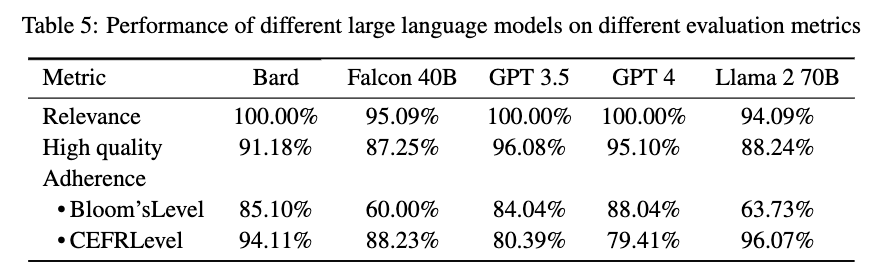
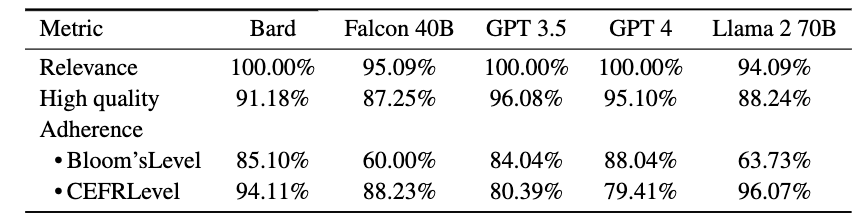
Changes to be committed: 	modified:   _pages/research.md 	modified:   images/table.png

diff --git a/_pages/research.md b/_pages/research.md
@@ -17,4 +17,4 @@ We examined the ability of five state-of-the-art LLMs to generate relevant and h
 
 ![Alt text](/images/table.png)
 
-*Performance of different large language models on different evaluation metrics*
+<div align="center">Performance of different large language models on different evaluation metrics</div>
